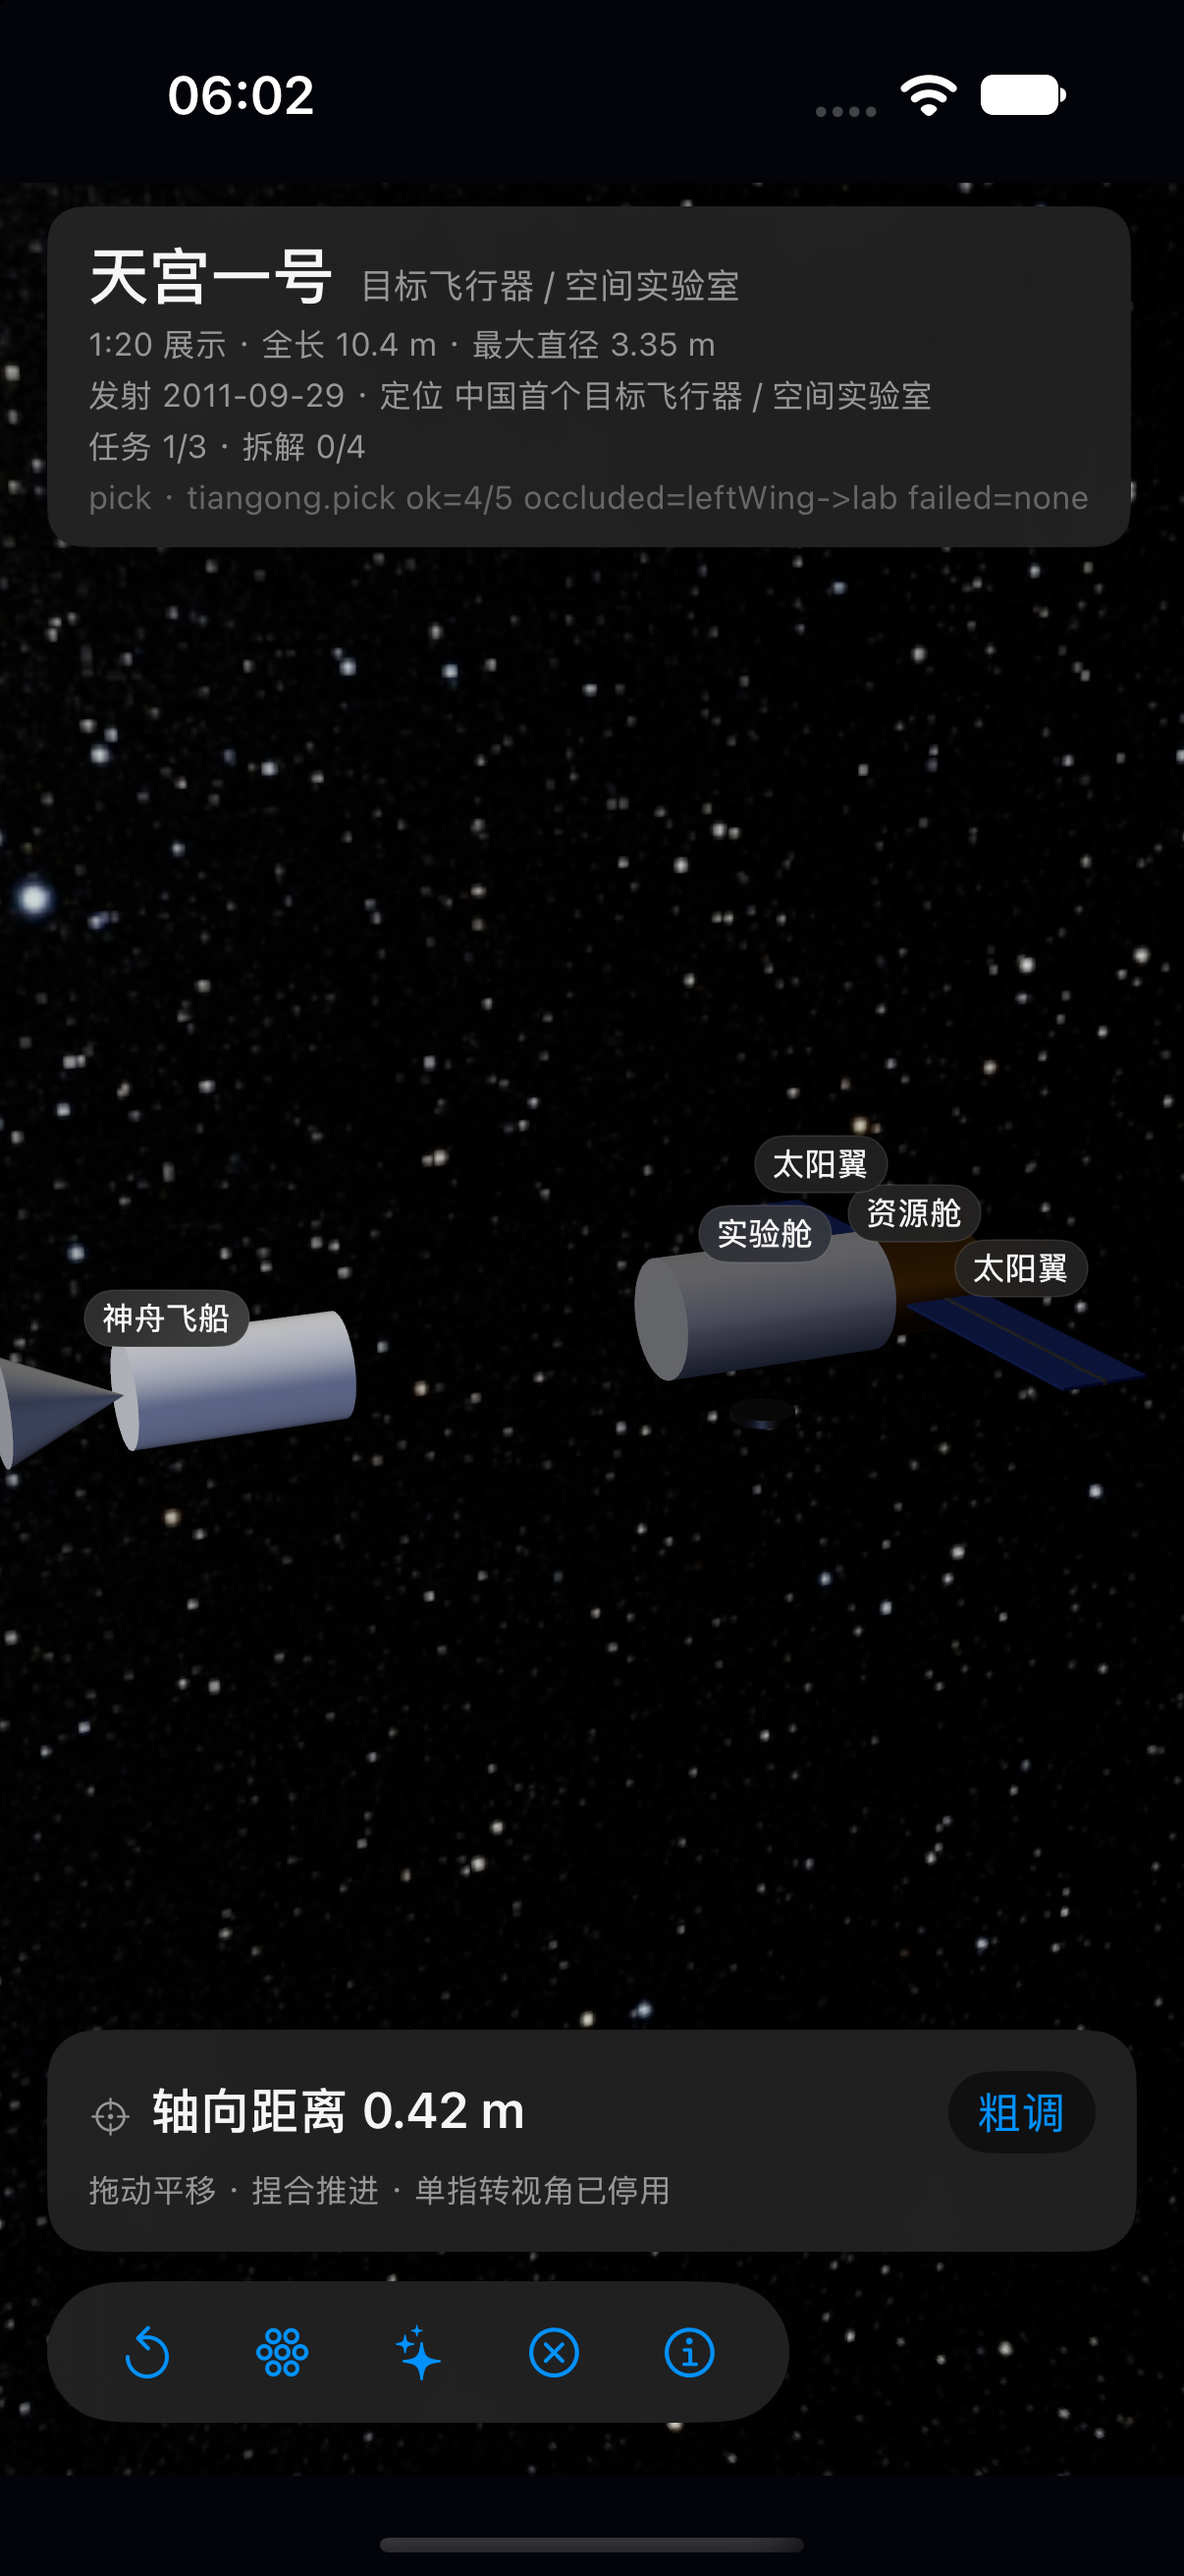
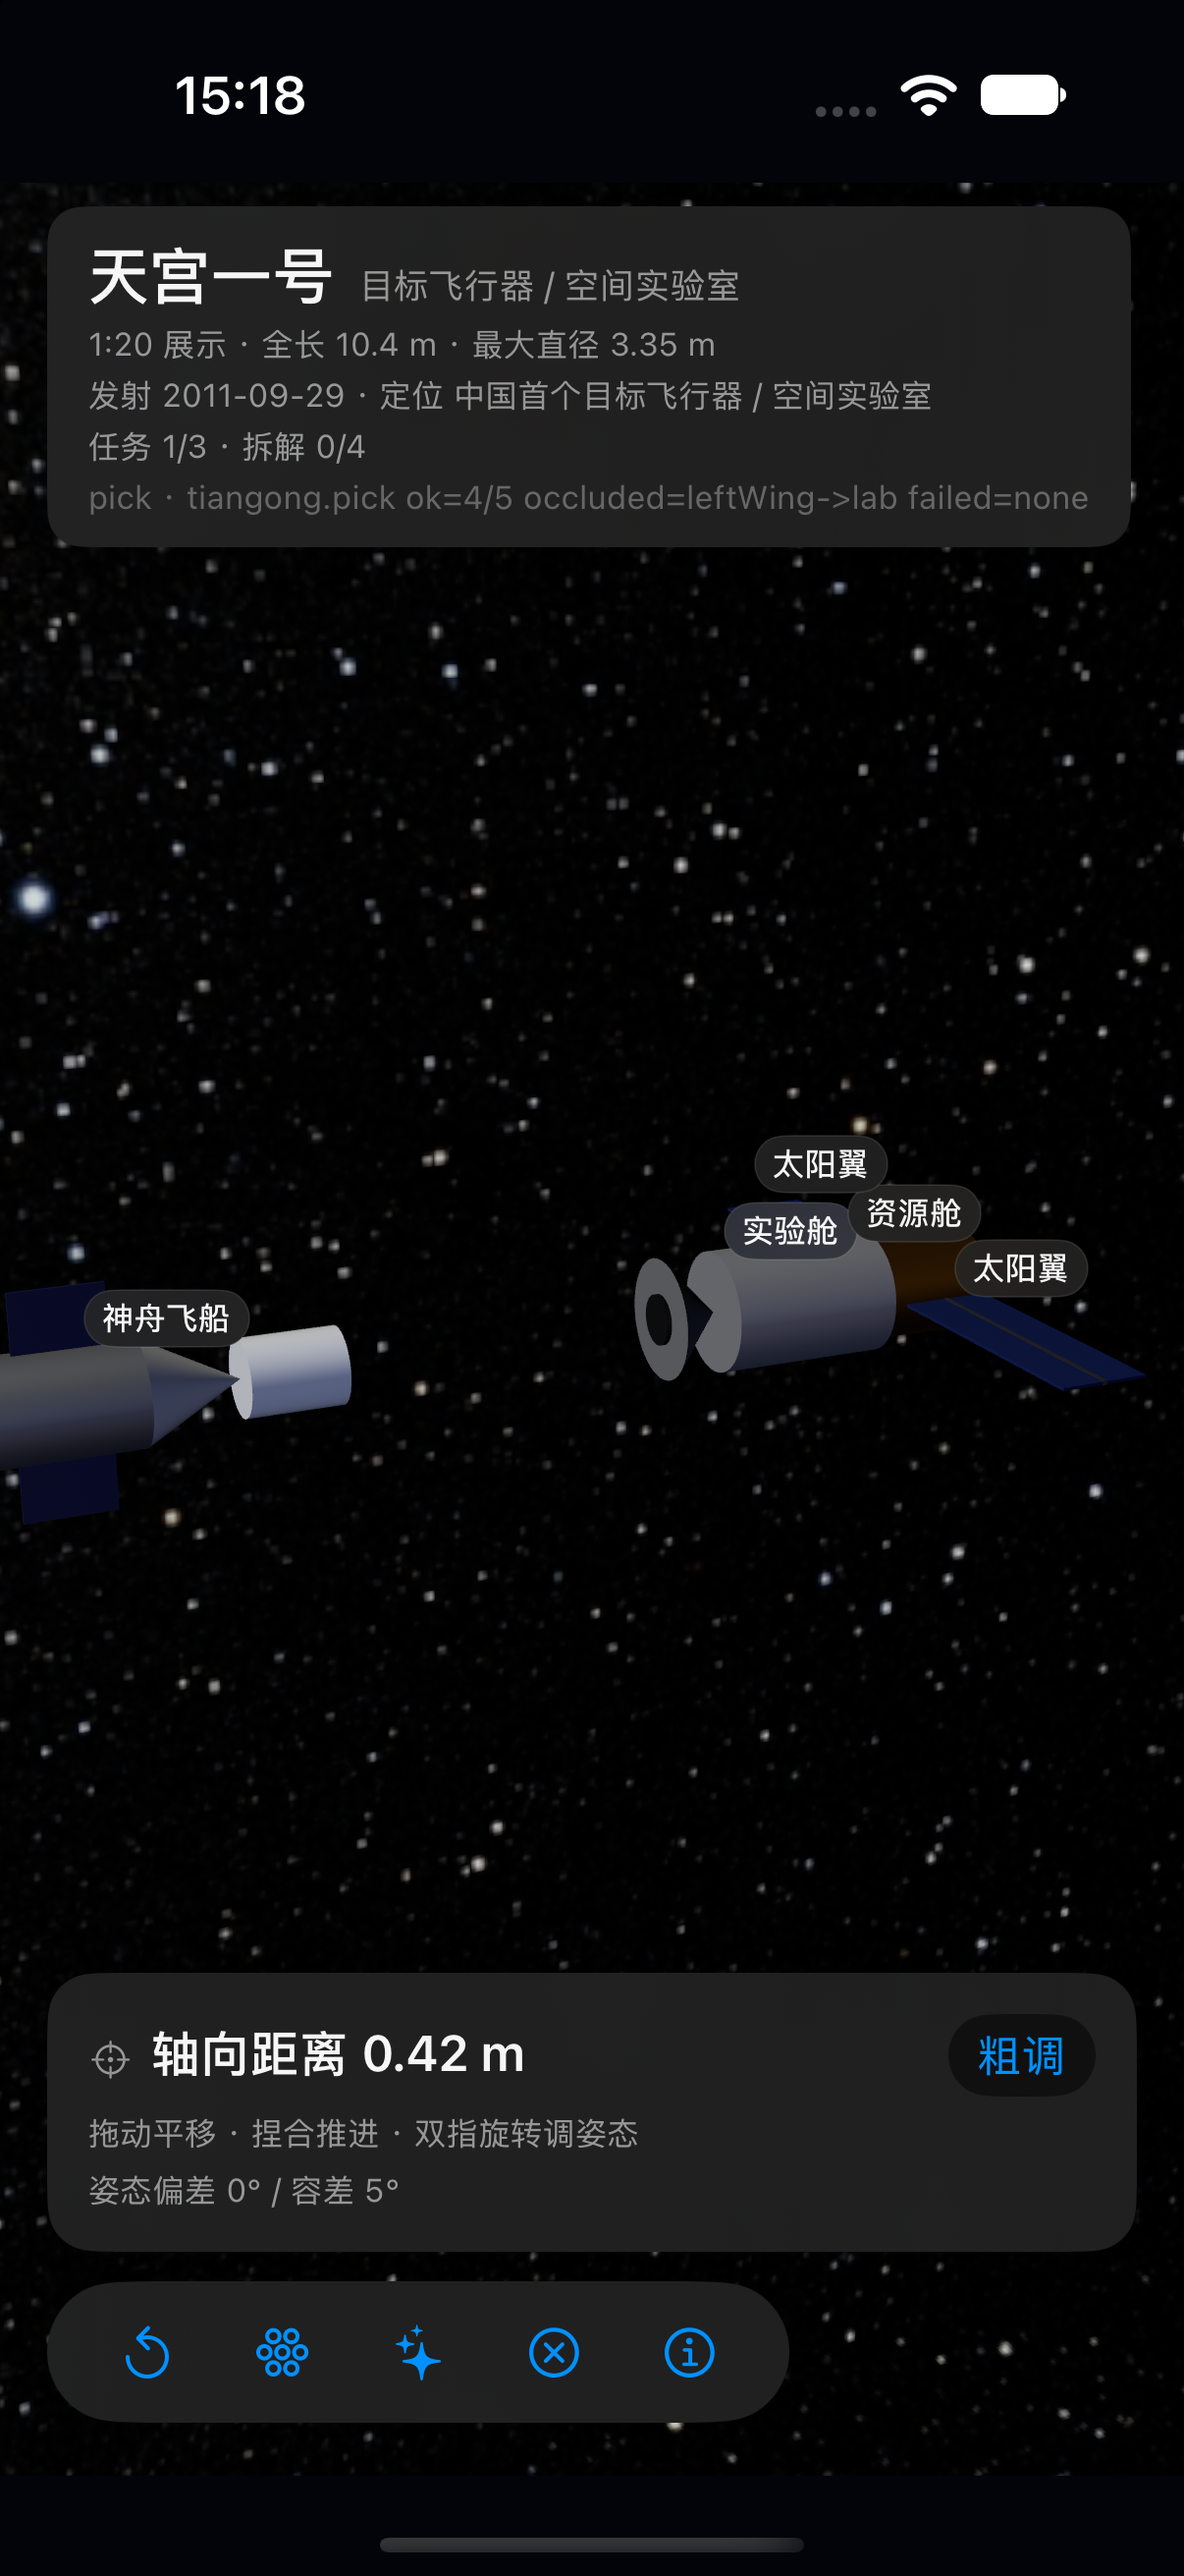
fix(tiangong): 按参考图修正舱体结构（015 补记）
用户指出锥体放错，追问参考图。此前只有文字尺寸、没有图像，补下载
Wikimedia Commons 的 Tiangong 1 drawing（CC BY-SA 3.0，Craigboy）对照，
发现三处结构性错误：

- 实验舱前端缺锥段：加 1.6m 锥段，锥尖朝神舟
  （最初用 +π/2 锥尖背对神舟，参考图上两艘飞行器的锥尖是相对的，改 -π/2）
- 神舟只有两段：补成轨道舱 / 返回舱（钟形，锥尖朝天宫）/ 推进舱
- 神舟没有太阳翼：推进舱两侧补两片

参考图归档到 docs/gates/M3/。

diff --git a/Sources/Features/Tiangong/TiangongScene.swift b/Sources/Features/Tiangong/TiangongScene.swift
@@ -157,28 +157,46 @@ final class TiangongScene {
     }
 
     private func addLab() {
-        let mesh = MeshResource.generateCylinder(
-            height: TiangongLayout.labLengthDisplay,
-            radius: TiangongScale.display(TiangongModel.maxDiameter) / 2
-        )
-        let entity = ModelEntity(
-            mesh: mesh,
+        let seal = ModelEntity(
+            mesh: MeshResource.generateCylinder(
+                height: TiangongLayout.labSealDisplay,
+                radius: TiangongScale.display(TiangongModel.maxDiameter) / 2
+            ),
             materials: [SimpleMaterial(color: UIColor(white: 0.82, alpha: 1), roughness: 0.55, isMetallic: true)]
         )
-        entity.orientation = simd_quatf(angle: .pi / 2, axis: SIMD3(1, 0, 0))
+        seal.orientation = simd_quatf(angle: .pi / 2, axis: SIMD3(1, 0, 0))
+
+        let lab = Entity()
+        lab.addChild(seal)
+
+        // 前端的非密封后锥段：参考图上舱体在这里收细，再接到对接环。
+        let cone = ModelEntity(
+            mesh: MeshResource.generateCone(
+                height: TiangongLayout.labConeDisplay,
+                radius: TiangongScale.display(TiangongModel.maxDiameter) / 2
+            ),
+            materials: [SimpleMaterial(color: UIColor(white: 0.7, alpha: 1), roughness: 0.6, isMetallic: true)]
+        )
+        // 锥尖朝 +Z（朝向神舟那一侧）；用 +π/2 会反过来，参考图上两艘飞行器的锥尖是相对的。
+        cone.orientation = simd_quatf(angle: -.pi / 2, axis: SIMD3(1, 0, 0))
+        cone.position = SIMD3(0, 0, TiangongLayout.labSealDisplay / 2 + TiangongLayout.labConeDisplay / 2)
+        lab.addChild(cone)
 
         let port = ModelEntity(
             mesh: MeshResource.generateCylinder(
                 height: 0.012,
-                radius: TiangongScale.display(TiangongModel.maxDiameter) / 2 * 0.55
+                radius: TiangongScale.display(TiangongModel.maxDiameter) / 2 * 0.42
             ),
             materials: [SimpleMaterial(color: UIColor(white: 0.35, alpha: 1), roughness: 0.4, isMetallic: true)]
         )
         port.orientation = simd_quatf(angle: .pi / 2, axis: SIMD3(1, 0, 0))
-        port.position = SIMD3(0, 0, TiangongLayout.labLengthDisplay / 2)
-        entity.addChild(port)
+        port.position = SIMD3(
+            0, 0,
+            TiangongLayout.labSealDisplay + TiangongLayout.labConeDisplay - TiangongLayout.labCenter.z
+        )
+        lab.addChild(port)
 
-        register(.lab, entity)
+        register(.lab, lab)
     }
 
     private func addResource() {
@@ -216,29 +234,56 @@ final class TiangongScene {
         register(id, entity)
     }
 
+    /// 神舟三舱，按参考图从前往后：轨道舱（对接端）→ 返回舱（钟形，锥尖朝天宫）→ 推进舱（带两片翼）。
     private func addShenzhou() {
         let holder = Entity()
-        let body = ModelEntity(
-            mesh: MeshResource.generateCylinder(
-                height: TiangongScale.display(TiangongModel.shenzhouLength) * 0.62,
-                radius: TiangongScale.display(TiangongModel.shenzhouDiameter) / 2
-            ),
-            materials: [SimpleMaterial(color: UIColor(white: 0.9, alpha: 1), roughness: 0.4, isMetallic: false)]
+        let length = TiangongScale.display(TiangongModel.shenzhouLength)
+        let radius = TiangongScale.display(TiangongModel.shenzhouDiameter) / 2
+
+        let orbitalLength = TiangongScale.display(TiangongModel.shenzhouOrbitalLength)
+        let capsuleLength = TiangongScale.display(TiangongModel.shenzhouCapsuleLength)
+        let serviceLength = TiangongScale.display(TiangongModel.shenzhouServiceLength)
+
+        let orbital = ModelEntity(
+            mesh: MeshResource.generateCylinder(height: orbitalLength, radius: radius * 0.74),
+            materials: [SimpleMaterial(color: UIColor(white: 0.88, alpha: 1), roughness: 0.45, isMetallic: false)]
         )
-        body.orientation = simd_quatf(angle: .pi / 2, axis: SIMD3(1, 0, 0))
-        body.position = SIMD3(0, 0, -TiangongScale.display(TiangongModel.shenzhouLength) * 0.19)
-        holder.addChild(body)
+        orbital.orientation = simd_quatf(angle: .pi / 2, axis: SIMD3(1, 0, 0))
+        orbital.position = SIMD3(0, 0, -length / 2 + orbitalLength / 2)
+        holder.addChild(orbital)
 
         let capsule = ModelEntity(
-            mesh: MeshResource.generateCone(
-                height: TiangongScale.display(TiangongModel.shenzhouLength) * 0.34,
-                radius: TiangongScale.display(TiangongModel.shenzhouDiameter) / 2
-            ),
+            mesh: MeshResource.generateCone(height: capsuleLength, radius: radius),
             materials: [SimpleMaterial(color: UIColor(white: 0.75, alpha: 1), roughness: 0.5, isMetallic: false)]
         )
-        capsule.orientation = simd_quatf(angle: -(.pi / 2), axis: SIMD3(1, 0, 0))
-        capsule.position = SIMD3(0, 0, TiangongScale.display(TiangongModel.shenzhouLength) * 0.29)
+        capsule.orientation = simd_quatf(angle: -.pi / 2, axis: SIMD3(1, 0, 0))
+        capsule.position = SIMD3(0, 0, -length / 2 + orbitalLength + capsuleLength / 2)
         holder.addChild(capsule)
+
+        let service = ModelEntity(
+            mesh: MeshResource.generateCylinder(height: serviceLength, radius: radius),
+            materials: [SimpleMaterial(color: UIColor(white: 0.6, alpha: 1), roughness: 0.6, isMetallic: true)]
+        )
+        service.orientation = simd_quatf(angle: .pi / 2, axis: SIMD3(1, 0, 0))
+        service.position = SIMD3(0, 0, length / 2 - serviceLength / 2)
+        holder.addChild(service)
+
+        for sign in [Float(-1), 1] {
+            let wing = ModelEntity(
+                mesh: MeshResource.generateBox(
+                    width: 0.004,
+                    height: TiangongScale.display(TiangongModel.shenzhouWingLength),
+                    depth: TiangongScale.display(TiangongModel.shenzhouWingWidth)
+                ),
+                materials: [SimpleMaterial(color: UIColor(red: 0.10, green: 0.15, blue: 0.32, alpha: 1), roughness: 0.35, isMetallic: false)]
+            )
+            wing.position = SIMD3(
+                0,
+                sign * (radius + TiangongScale.display(TiangongModel.shenzhouWingLength) / 2),
+                service.position.z
+            )
+            holder.addChild(wing)
+        }
 
         register(.shenzhou, holder)
     }

diff --git a/Sources/Features/Tiangong/TiangongModel.swift b/Sources/Features/Tiangong/TiangongModel.swift
@@ -21,8 +21,12 @@ enum TiangongScale {
 enum TiangongModel {
     static let totalLength: Float = 10.4
     static let maxDiameter: Float = 3.35
-    /// 实验舱（含非密封后锥段）轴向长度。
+    /// 实验舱轴向长度，含前端的非密封后锥段。
     static let labLength: Float = 6.4
+    /// 锥段长度：参考图上它约占实验舱的 1/4，是舱体最显著的外形特征之一。
+    static let labConeLength: Float = 1.6
+    /// 密封舱 = 实验舱总长 − 锥段。
+    static var labSealLength: Float { labLength - labConeLength }
     /// 资源舱轴向尺寸。
     static let resourceLength: Float = 3.2
     static let resourceDiameter: Float = 2.775
@@ -34,6 +38,15 @@ enum TiangongModel {
     static let wingWidth: Float = 2.5
     static let shenzhouLength: Float = 9.0
     static let shenzhouDiameter: Float = 2.8
+    /// 神舟三舱：轨道舱 / 返回舱（钟形）/ 推进舱。长度按参考图比例分配。
+    static let shenzhouOrbitalLength: Float = 2.6
+    static let shenzhouCapsuleLength: Float = 2.6
+    static var shenzhouServiceLength: Float {
+        shenzhouLength - shenzhouOrbitalLength - shenzhouCapsuleLength
+    }
+    /// 推进舱两侧太阳翼（参考图上神舟也有两片，我之前漏做）。
+    static let shenzhouWingLength: Float = 1.6
+    static let shenzhouWingWidth: Float = 2.4
 
     /// 单翼长度 =（总跨度 − 舱体最大直径）/ 2。
     static var wingLength: Float {
@@ -81,10 +94,14 @@ enum TiangongModuleID: String, CaseIterable, Equatable, Sendable, Identifiable {
 /// 装配位姿：展示坐标（米）。沿 +Z 指向飞行方向，太阳翼沿 ±X 展开。
 struct TiangongLayout {
     static let labLengthDisplay = TiangongScale.display(TiangongModel.labLength)
+    static let labSealDisplay = TiangongScale.display(TiangongModel.labSealLength)
+    static let labConeDisplay = TiangongScale.display(TiangongModel.labConeLength)
     static let resourceLengthDisplay = TiangongScale.display(TiangongModel.resourceLength)
 
     /// 两舱首尾相接于 z = 0：实验舱在前（+Z），资源舱在后（−Z）。
-    static let labCenter = SIMD3<Float>(0, 0, labLengthDisplay / 2)
+    /// 实验舱自己再分两段：密封舱在前、锥段在其中，锥段朝 +Z 收细后接对接环。
+    static let labCenter = SIMD3<Float>(0, 0, labSealDisplay / 2)
+    static let labConeCenter = SIMD3<Float>(0, 0, labSealDisplay + labConeDisplay / 2)
     static let resourceCenter = SIMD3<Float>(0, 0, -resourceLengthDisplay / 2)
 
     static let dockingPortZ = labLengthDisplay + TiangongScale.display(TiangongModel.dockingPortLength)

diff --git a/Tests/TiangongTests.swift b/Tests/TiangongTests.swift
@@ -22,7 +22,8 @@ final class TiangongScaleTests: XCTestCase {
 
     func testCabinsAreAdjacentAtOrigin() {
         let gap = TiangongLayout.labCenter.z - TiangongLayout.resourceCenter.z
-        let expected = TiangongLayout.labLengthDisplay / 2 + TiangongLayout.resourceLengthDisplay / 2
+        // 实验舱中心现在落在密封舱的一半处（锥段在它前面），不再是整段的一半。
+        let expected = TiangongLayout.labSealDisplay / 2 + TiangongLayout.resourceLengthDisplay / 2
         XCTAssertEqual(gap, expected, accuracy: 0.0001, "两舱应首尾相接")
     }
 
